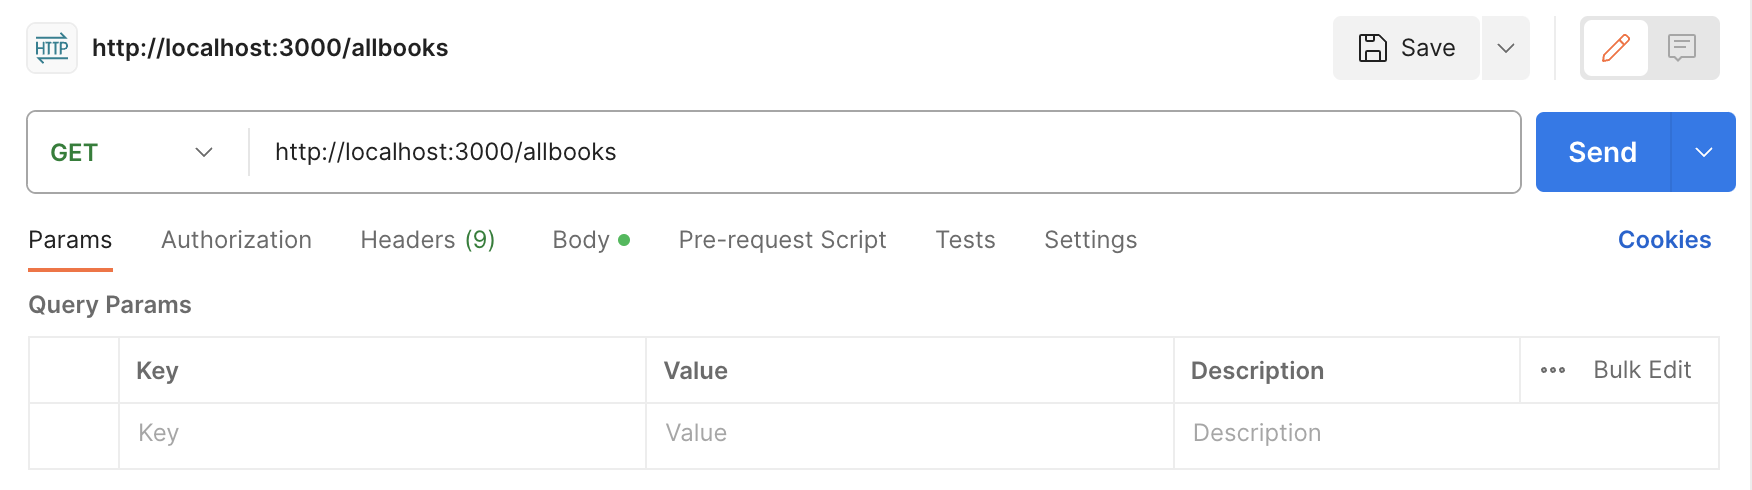
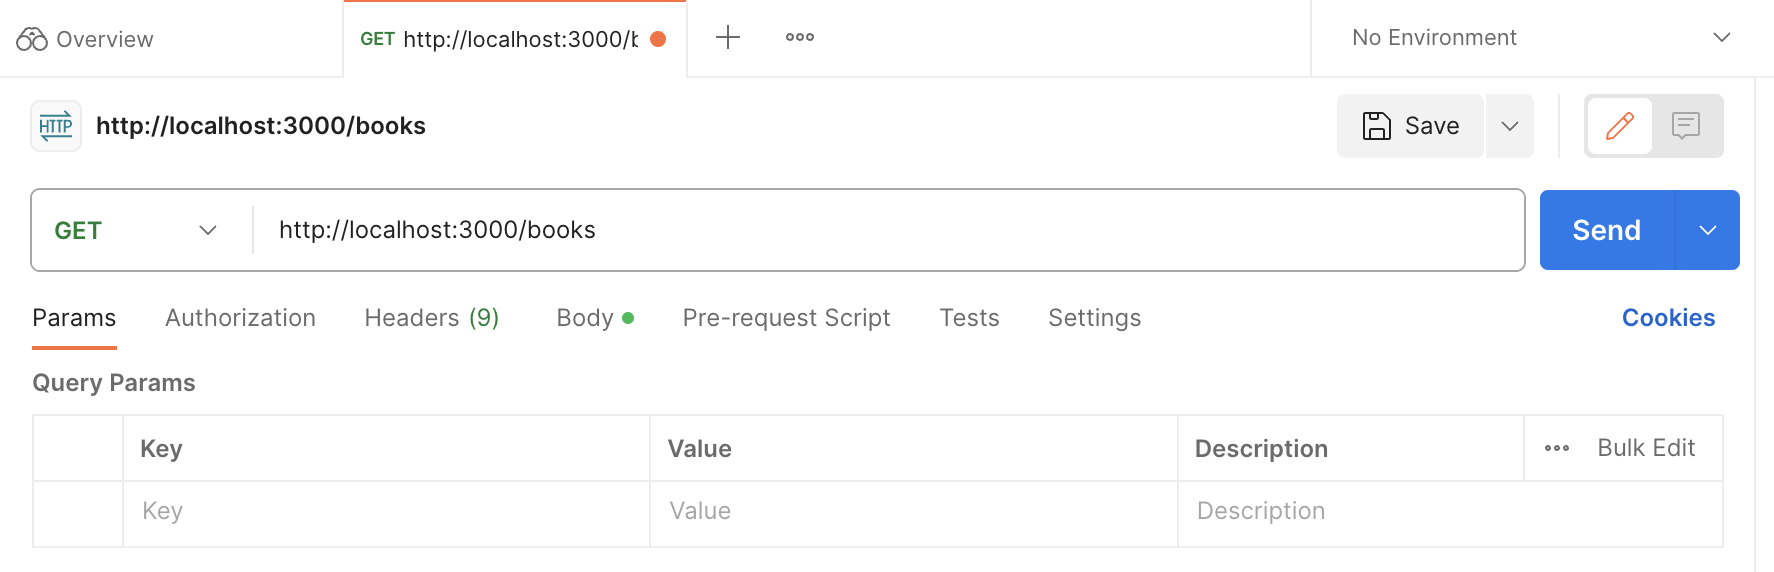
update hw8

diff --git a/src/hw/web/fa23-hw8.md b/src/hw/web/fa23-hw8.md
@@ -1,6 +1,6 @@
 # Create your own API!
 
-In this homework, you will practice creating a basic API server using Node, Express, MongoDB, and mongoose. This time, there's no skeleton code! But don't worry, we will guide you through this assignment step by step.
+In this homework, you will review how to create an API server using Node, Express, MongoDB, and mongoose. There's no skeleton code. We will guide you through this assignment step by step.
 
 ## Part 0:
 
@@ -98,7 +98,7 @@ app.post("/new", async (req, res) => {
 Define a GET endpoint that will retrieve all documents.
 
 ```js
-app.get("/allBooks", async (req, res) => {
+app.get("/books", async (req, res) => {
     const books = await Book.find()
     res.send(books)
 })
@@ -114,10 +114,10 @@ app.listen(3000, () => {
 
 _Run **node index.js** in the terminal._
 
- If an error occurs, it will be printed in the terminal. If the error looks like this: "MongooseServerSelectionError: Could not connect to any servers in your MongoDB Atlas cluster. One common reason is that you're trying to access the database from an IP that isn't whitelisted.", then follow these steps:
+ If an error occurs, it will be printed in the terminal. If the error looks like this: <code>"MongooseServerSelectionError: Could not connect to any servers in your MongoDB Atlas cluster. One common reason is that you're trying to access the database from an IP that isn't whitelisted."</code>, then follow these steps:
 1. Go to MongoDB and on the side menu, go to Security->Network Access.
 2. Click "+Add IP Address".
-3. Copy your IP Address from [here](https://whatismyipaddress.com/).
+3. Copy your IP Address from [here](https://whatismyipaddress.com/) under IPv4.
 4. Paste it into "Access List Entry" and click "Confirm".
 5. Rerun **node index.js**. If you are getting the same error, click "+Add IP Address" and "Allow Access from Anywhere" and "Confirm".
 
@@ -130,9 +130,9 @@ Run **node index.js** and use Postman to test your API. Check your MongoDB colle
 <img src="/assets/hw8/book-mongo.png" style="width: 100%; padding: 20px 0;"/>
 
 
-Congrats, you are done! Hopefully you have a fully functional server!
+Congrats, you are done! You've created a fully functional server!
 
-## OPTIONAL: Create a Frontend
+## +1 POINT EXTRA CREDIT (OPTIONAL): Create a Frontend
 
 Create an **index.html** and **scripts.js** file. Here is some basic frontend code. Modify it to fit your API.
 
@@ -185,7 +185,7 @@ submitPostReq.addEventListener("click", async function () {
 
 submitGetReq.addEventListener("click", async function () {
     list.replaceChildren()
-    const response = await fetch("http://localhost:3000/allBooks")
+    const response = await fetch("http://localhost:3000/books")
     const data = await response.json()
     for (let index = 0; index < data.length; index = index + 1) {
         const bookTitle = data[index].title
@@ -197,7 +197,7 @@ submitGetReq.addEventListener("click", async function () {
 
 ```
 
-Run **node index.js**. Any errors will appear in the terminal. Use **console.log** in the scripts.js file to debug. Open the **index.html** file on a browser and play around with your app!
+Run **node index.js**. Any errors will appear in the terminal. Use **console.log** in the scripts.js file to debug. Open the **index.html** file in a browser and play around with your app!
 
 # Submission
 For this homework, <mark>only submit your index.js file</mark>.
